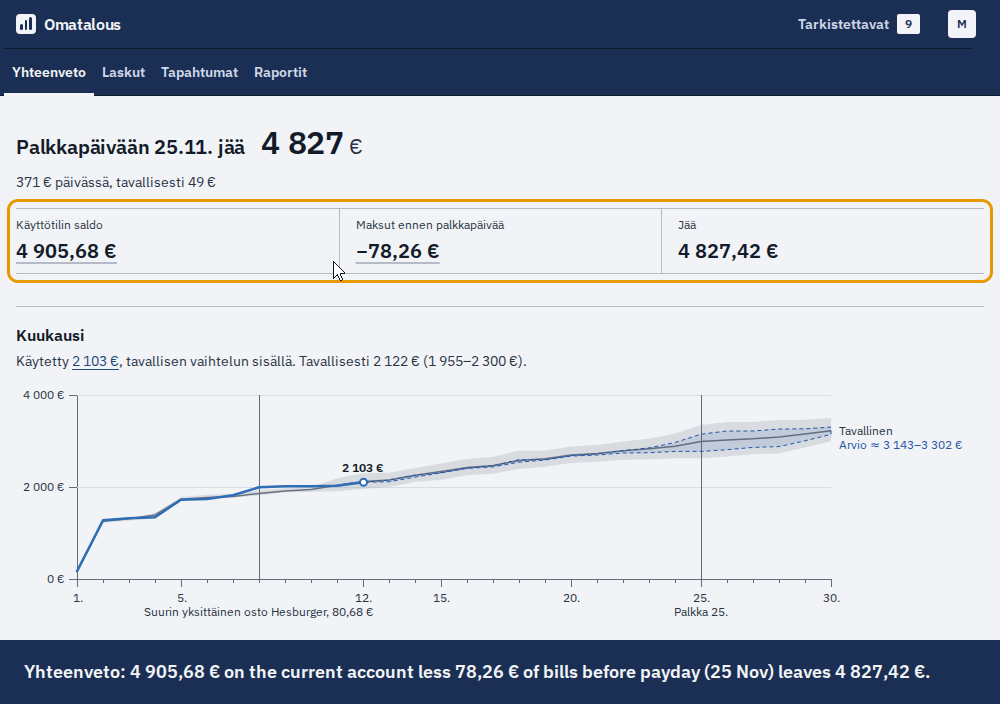
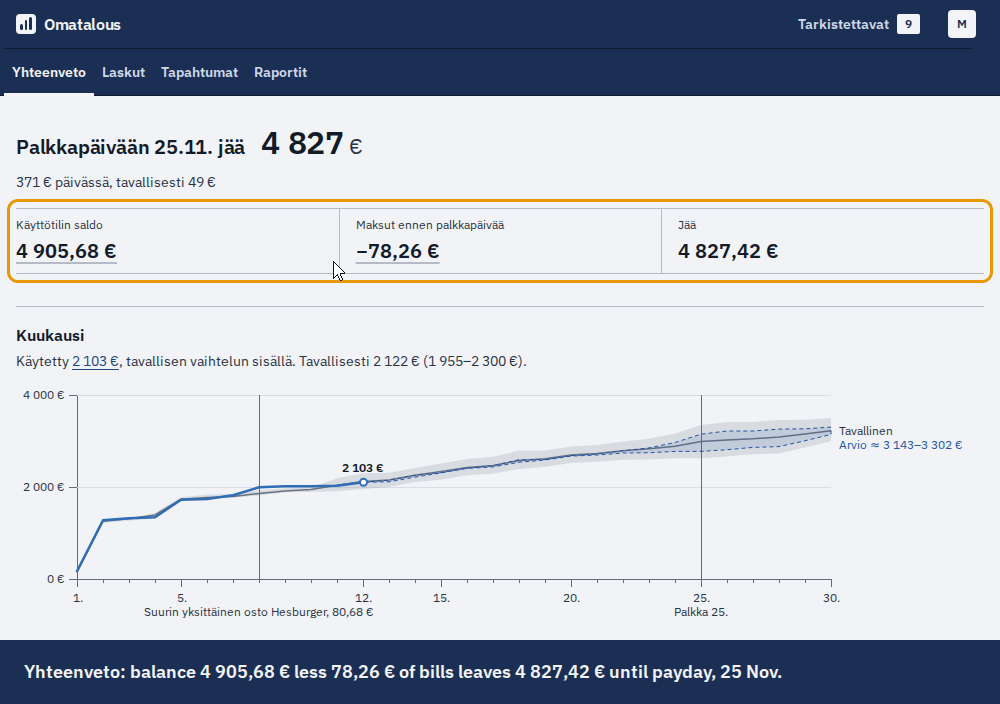
README film: captions held by length, no frame under the wrong caption
The captions are timed at 17 characters a second, with the pointer's
moves counted, and shortened so the film lasts about 35 s. The loaded
first page has its own caption, the bank-text row is one whose payee
is in its text, the rows' payee and category are checked through the
API, an empty figure or a month with no bill before payday stops the
run, the pointer rests off the text, and the chunks of the APNG are
checked without its decoder.

Changed region(s): [[0.124, 0.9375, 0.93, 0.9688]]

diff --git a/tools/test/readme-film.test.ts b/tools/test/readme-film.test.ts
@@ -1,11 +1,12 @@
 import { readFileSync } from "node:fs";
 import { join } from "node:path";
+import { crc32 } from "node:zlib";
 import { describe, expect, it } from "vitest";
 import { pngTexts, scanImage, STAMP_KEY } from "../privacy/scan.mjs";
 import { SIZE } from "../readme-film/compose.mjs";
 import { FILES, IMAGES, MAX_BYTES, SECONDS } from "../readme-film/film.mjs";
 import { decodeApng, decodePng, encodeApng, encodePng } from "../readme-film/png.mjs";
-import { cents, englishDate, englishMonth, euros } from "../readme-film/steps.mjs";
+import { cents, englishDate, englishDays, euros, readMs } from "../readme-film/steps.mjs";
 
 const ROOT = join(import.meta.dirname, "../..");
 
@@ -46,11 +47,19 @@ describe("readme:film, the captions", () => {
     expect(() => cents("ei summaa")).toThrow();
   });
 
-  it("writes the app's Finnish dates and months in English", () => {
+  it("writes the app's Finnish dates and spans of days in English", () => {
     expect(englishDate("1.10.2025")).toBe("1 Oct 2025");
     expect(englishDate("25.11.")).toBe("25 Nov");
-    expect(englishMonth("Marraskuu 2026")).toBe("November");
-    expect(() => englishMonth("Viikko 46")).toThrow();
+    expect(englishDays("1.–12.11.")).toEqual({ text: "1–12 Nov", days: 12 });
+    // the 1st of a month is one day, which the caption names as "that day"
+    expect(englishDays("1.11.")).toEqual({ text: "1 Nov", days: 1 });
+    expect(() => englishDays("Viikko 46")).toThrow();
+  });
+
+  // 17 characters a second, the pace of subtitles for adults; a short caption still stays long enough to notice
+  it("holds a caption by its length", () => {
+    expect(readMs("x".repeat(170))).toBe(10_000);
+    expect(readMs("Short.")).toBe(2600);
   });
 });
 
@@ -66,6 +75,38 @@ describe("readme:film, the film in docs/images/", () => {
     ] as const) {
       expect(pngTexts(png)[STAMP_KEY], file).toBe("demo");
       expect(scanImage(`docs/images/${file}`, png), file).toEqual([]);
+    }
+  });
+
+  // read without decodeApng, so a mistake the encoder and the decoder share does not pass: the APNG specification's order
+  it("is an APNG by its chunks: valid CRCs, the still as the default image, frames numbered in order inside the picture", () => {
+    const list: { type: string; data: Buffer }[] = [];
+    for (let at = 8; at < film.length; ) {
+      const length = film.readUInt32BE(at);
+      const type = film.toString("latin1", at + 4, at + 8);
+      const data = film.subarray(at + 8, at + 8 + length);
+      expect(film.readUInt32BE(at + 8 + length), `CRC of ${type}`).toBe(crc32(film.subarray(at + 4, at + 8 + length)));
+      list.push({ type, data });
+      at += 12 + length;
+    }
+    const types = list.map((c) => c.type);
+    expect(types[0]).toBe("IHDR");
+    expect(types.at(-1)).toBe("IEND");
+    const ihdr = list[0]!.data;
+    const [width, height] = [ihdr.readUInt32BE(0), ihdr.readUInt32BE(4)];
+    const actl = list.find((c) => c.type === "acTL")!.data;
+    expect(types.indexOf("acTL")).toBeLessThan(types.indexOf("IDAT"));
+    const fctl = list.filter((c) => c.type === "fcTL");
+    expect(actl.readUInt32BE(0)).toBe(fctl.length);
+    expect(actl.readUInt32BE(4), "plays").toBe(0);
+    // no fcTL before IDAT: the IDAT image is the still, outside the animation, which a viewer without APNG shows
+    expect(types.indexOf("fcTL")).toBeGreaterThan(types.lastIndexOf("IDAT"));
+    const numbered = list.filter((c) => c.type === "fcTL" || c.type === "fdAT").map((c) => c.data.readUInt32BE(0));
+    expect(numbered).toEqual(numbered.map((_, i) => i));
+    for (const { data } of fctl) {
+      const [w, h, x, y] = [data.readUInt32BE(4), data.readUInt32BE(8), data.readUInt32BE(12), data.readUInt32BE(16)];
+      expect(x + w).toBeLessThanOrEqual(width);
+      expect(y + h).toBeLessThanOrEqual(height);
     }
   });
 

diff --git a/docs/DEVELOPMENT.md b/docs/DEVELOPMENT.md
@@ -484,7 +484,8 @@ pnpm shots overview --demo --answers tools/shots-examples/answers.mjs --steps to
 starts the app on an empty data folder and runs `tools/readme-film/steps.mjs`, which loads the example data with the
 first page's button, clicks through the pages and writes each caption from the figures on the page. A caption whose
 figures do not add up on the page stops the run. The example data runs up to the day of the run, so the figures change
-with the day. `pnpm readme:film --frames <dir>` writes every frame of the film to `<dir>` to read it frame by frame. Run
+with the day, and rows of one day can stand in another order, so a second run on the same day changes the file too.
+`pnpm readme:film --frames <dir>` writes every frame of the film to `<dir>` to read it frame by frame. Run
 it when a page in the film changed, and read the captions it prints.
 
 ### Golden files

diff --git a/README.md b/README.md
@@ -4,7 +4,7 @@ Omatalous is a personal finance app for a Finnish household. It runs on a Linux 
 accounts through [Enable Banking](https://enablebanking.com) and sorts every transaction into a category. It opens on
 one sum: what is left until the next payday after the bills due before it.
 
-A loop of about 40 seconds through the app with its example household, from the first transactions to the phone.
+A short loop through the app with its example household, from the first transactions to the phone.
 
 <picture>
   <source media="(prefers-reduced-motion: reduce)" srcset="docs/images/tour-still.png">
